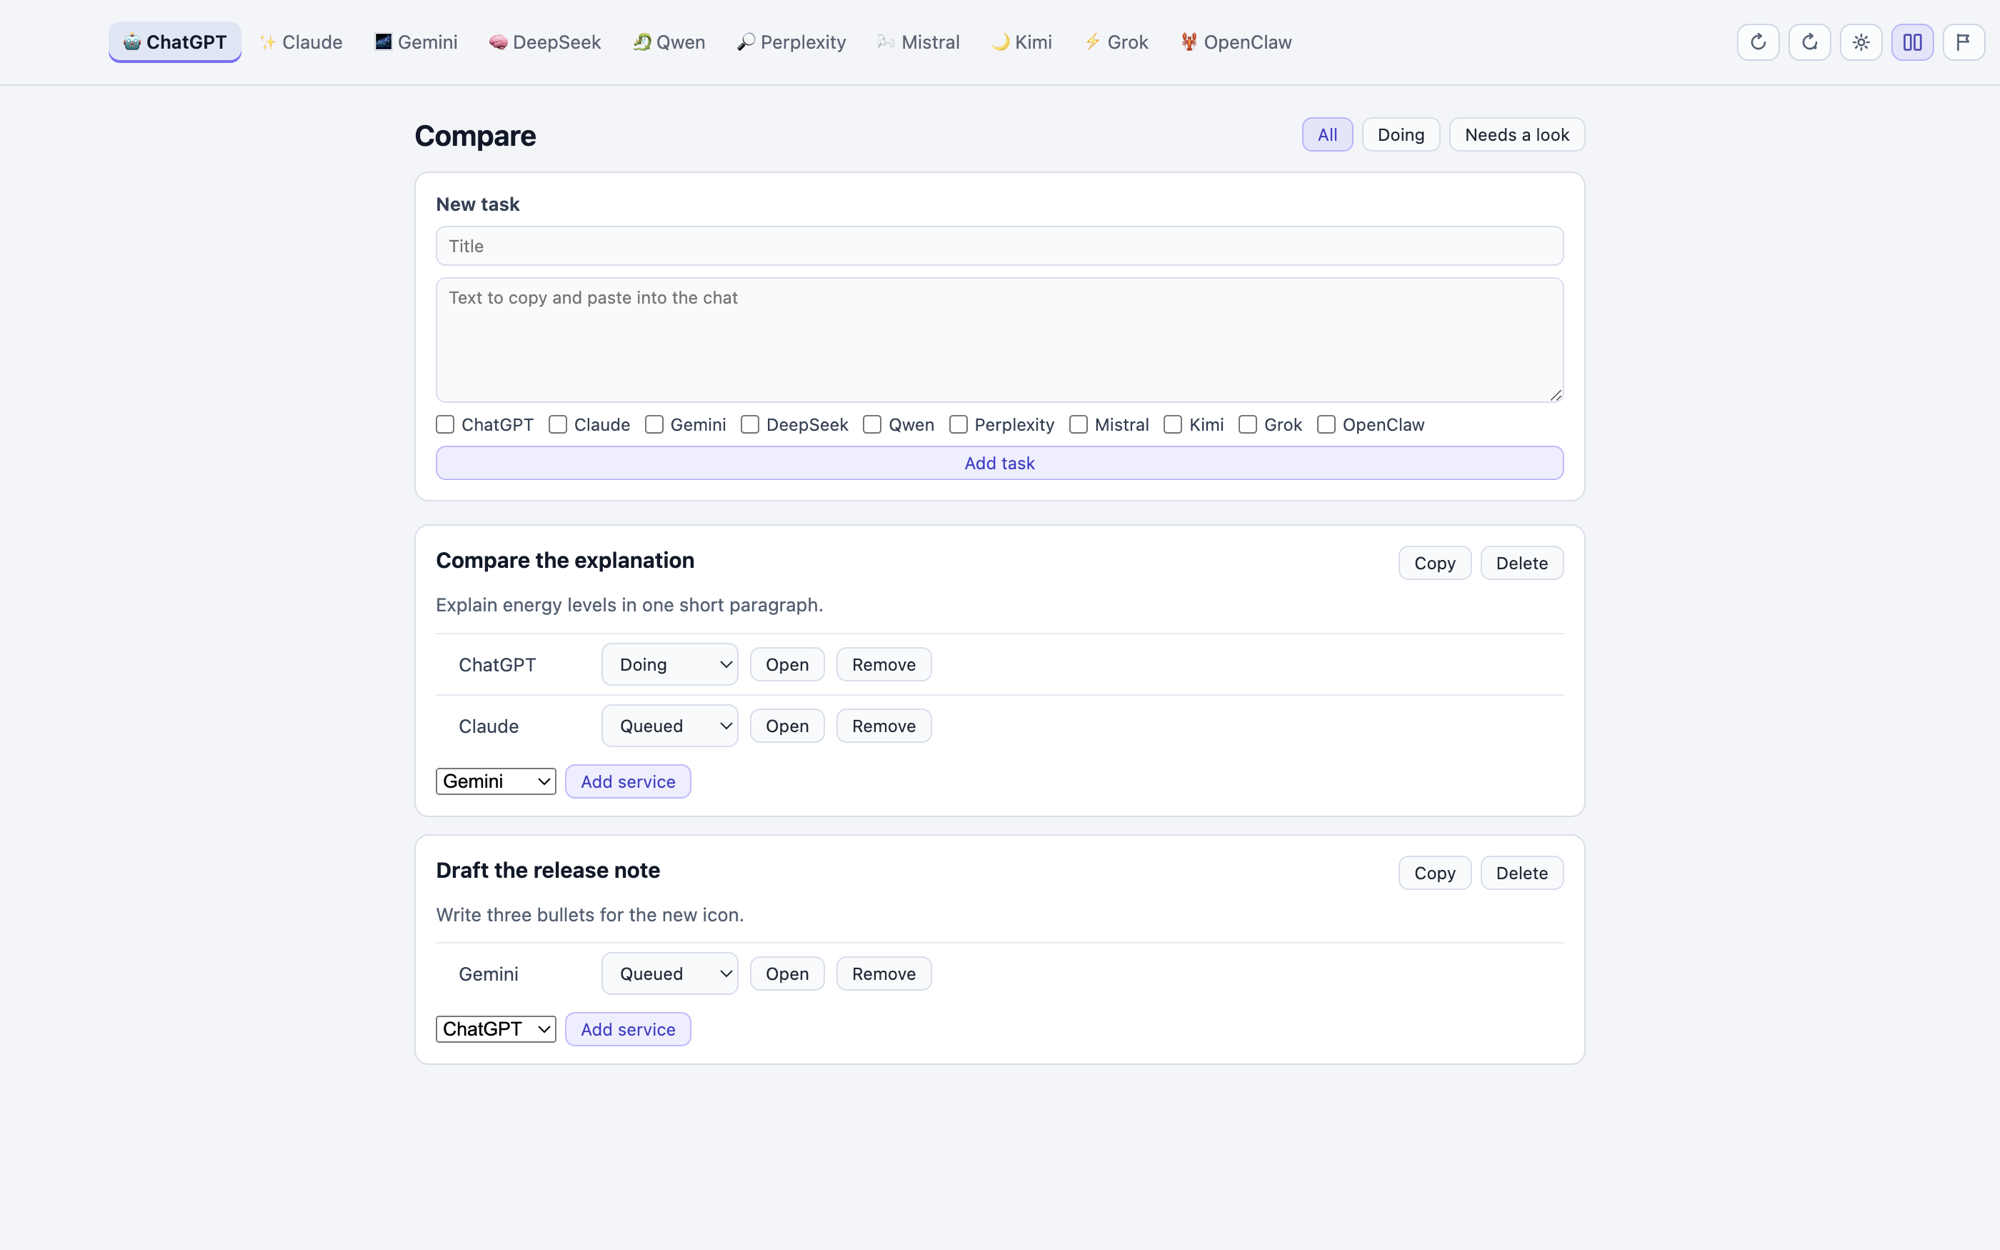
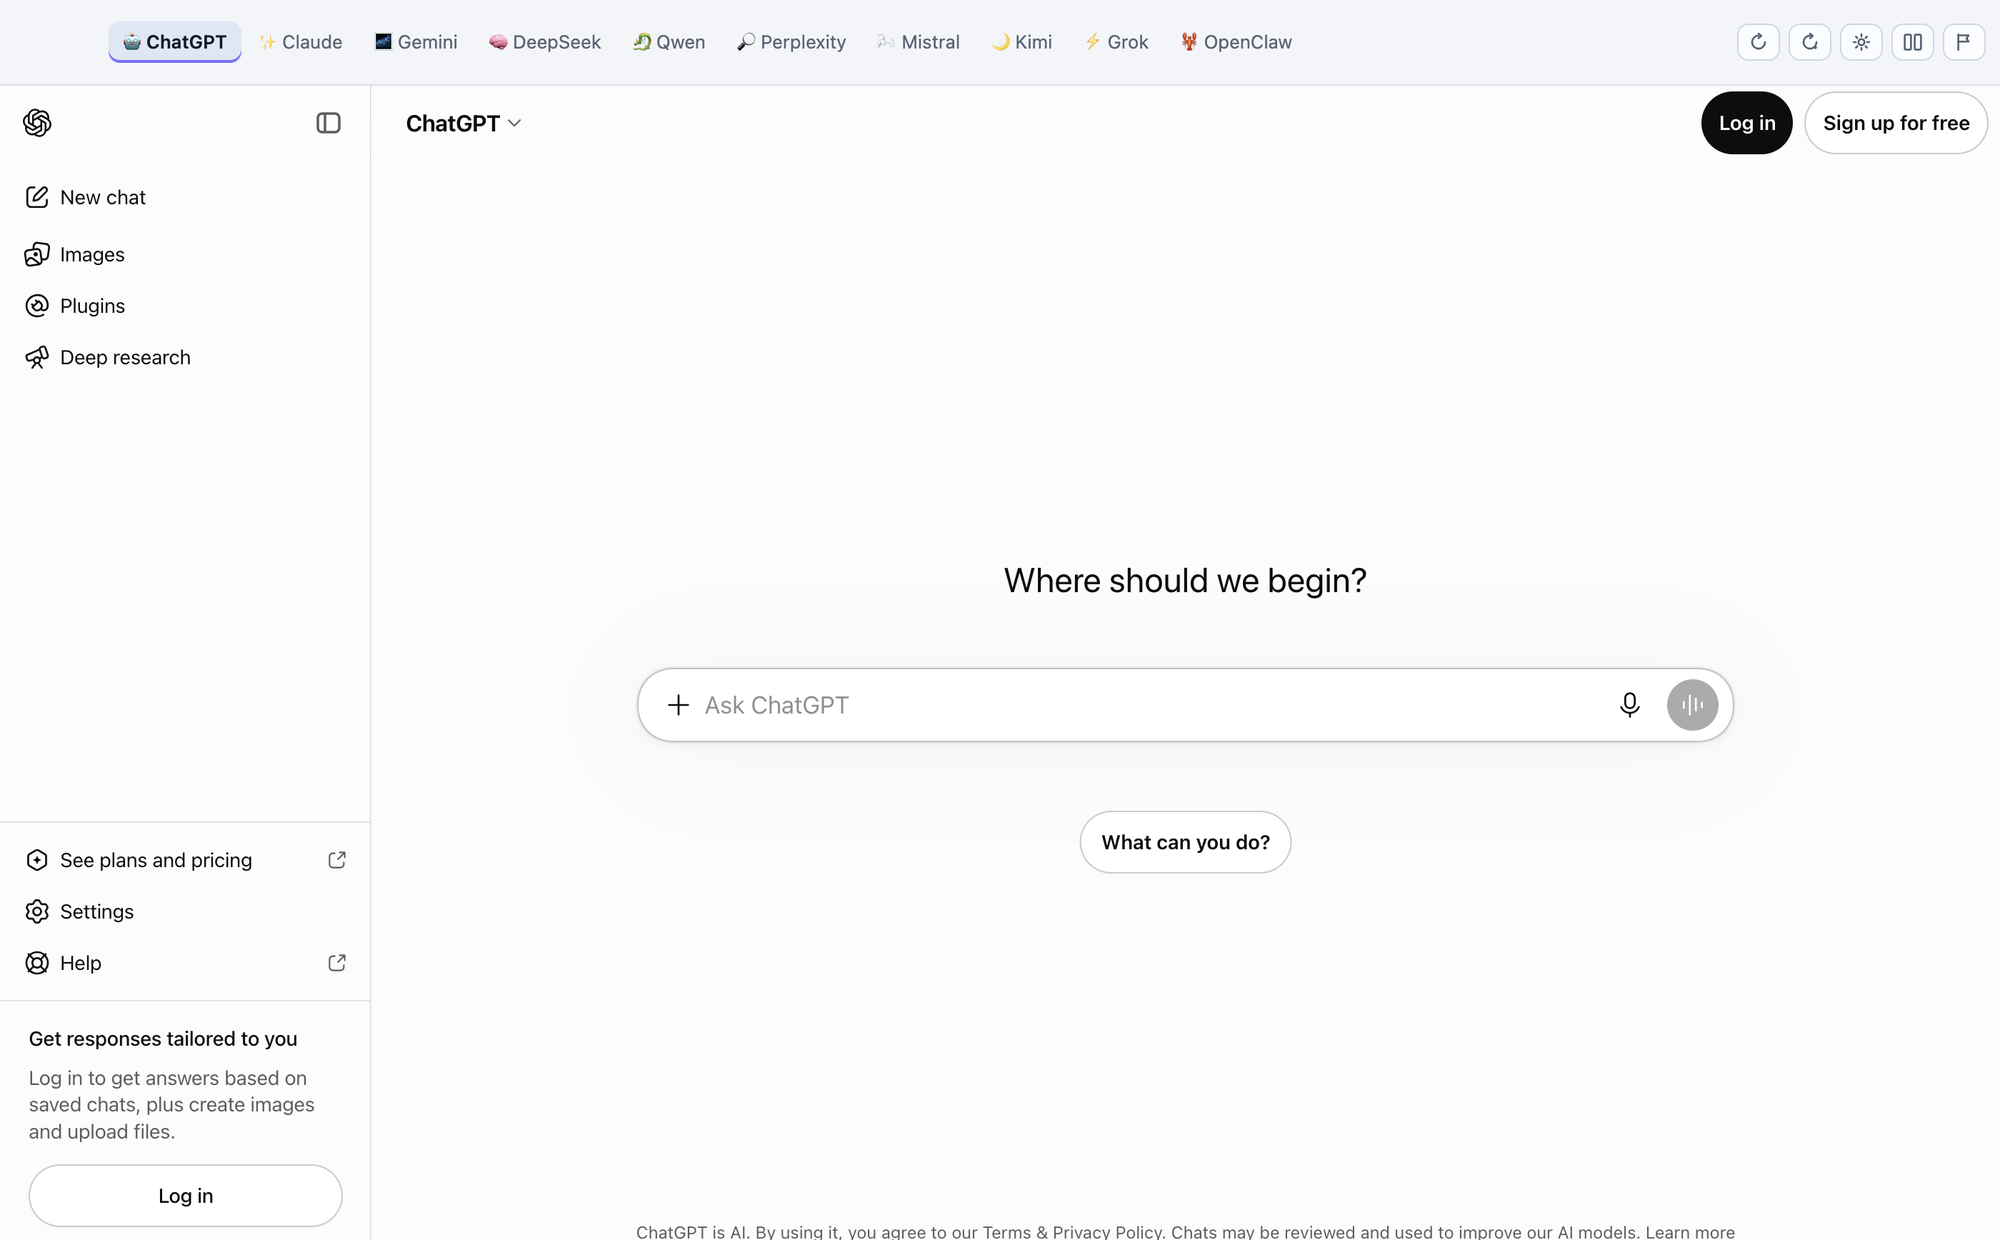
docs: lead the README with the latest window
The first screenshot is the current service view. Compare stays later in the page.

diff --git a/README.md b/README.md
@@ -16,7 +16,9 @@ ChatGPT · Claude · Gemini · DeepSeek · Grok · Perplexity · Mistral · Qwen
 
 ---
 
-![AI Hub Compare board](assets/screenshot.png)
+![AI Hub, latest version](assets/screenshot.png)
+
+*Latest version. The first screen is the service you open, not Compare.*
 
 ---
 
@@ -56,7 +58,7 @@ The service names are tabs. The buttons on the right are icons:
 
 ## Compare
 
-![Compare board with two tasks](assets/screenshot.png)
+![Compare board with two tasks](assets/screenshot-compare.png)
 
 Compare is a board in the shell, not a second account system.
 
